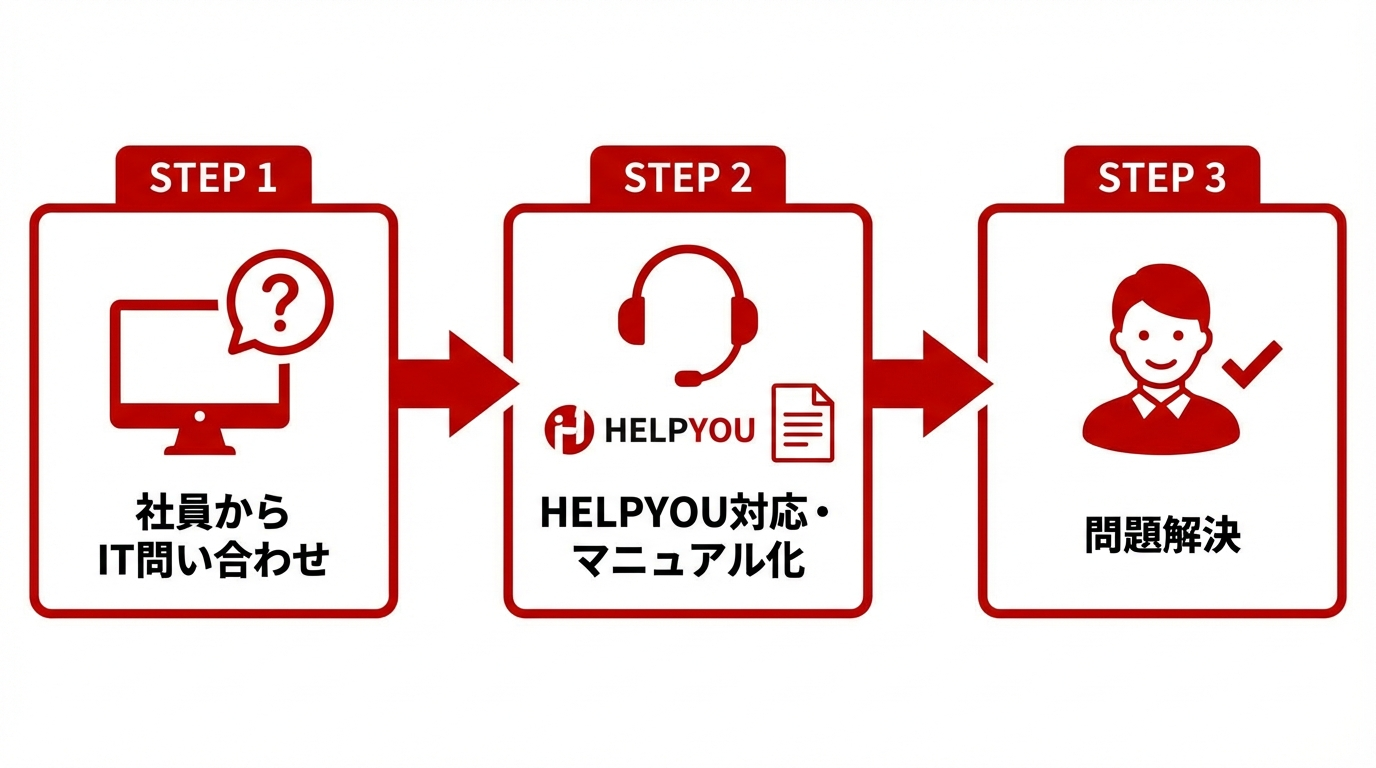
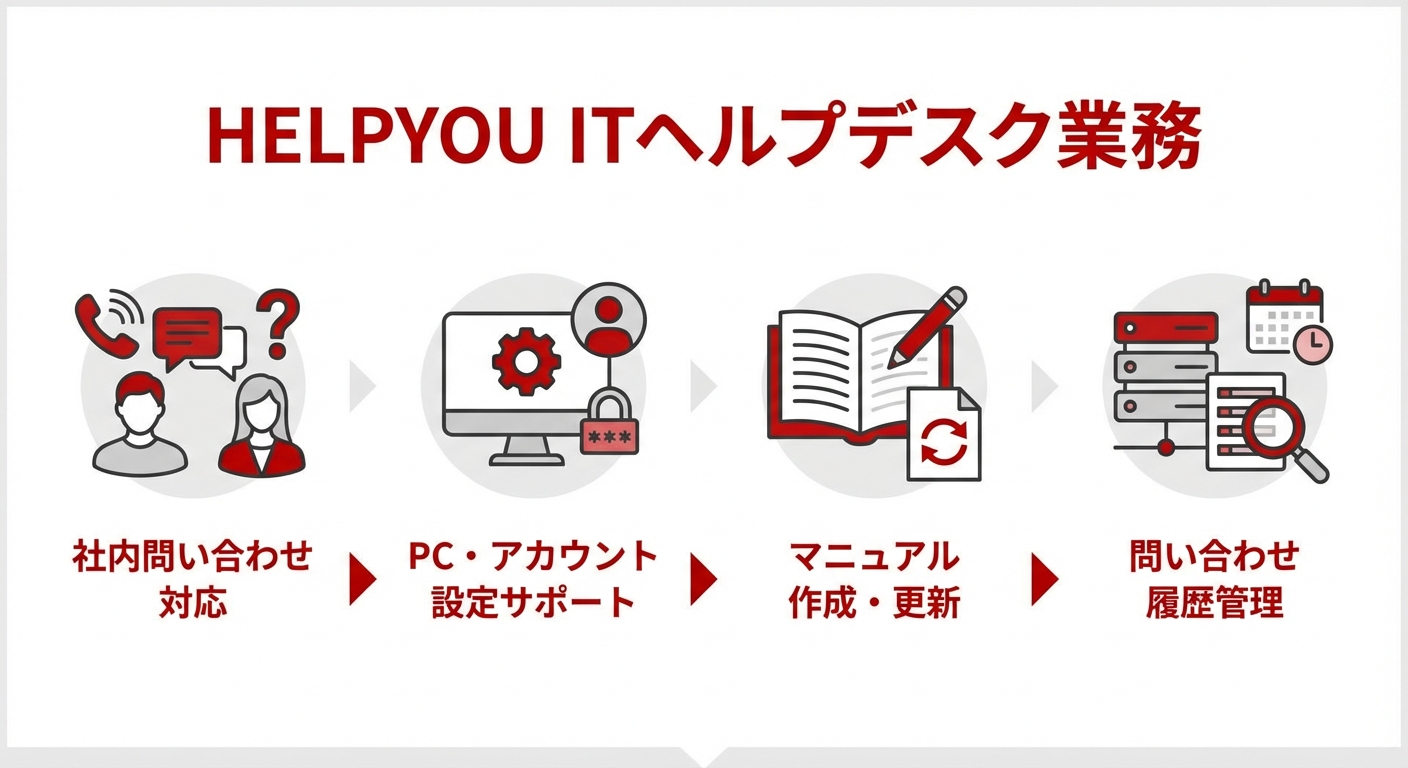
Regenerate images with detailed service descriptions
Update prompts to show actual services as infographics instead of generic 3-step flows

🤖 Generated with [Claude Code](https://claude.ai/code)

Changed region(s): [[0.0, 0.125, 1.0, 0.8125], [0.0, 0.9688, 0.9688, 1.0]]

diff --git a/scripts/generate-images.ts b/scripts/generate-images.ts
@@ -15,42 +15,90 @@ const cases = [
   {
     id: '1',
     title: '経理業務の月次決算サポート',
-    prompt: '業務フロー図を生成してください。横向きの3ステップ図で、各ノードにはアイコンと日本語の説明文を含めてください。ステップ1「経理データ受領」→ ステップ2「HELPYOU処理（仕訳・請求書・経費精算）」→ ステップ3「月次レポート納品」。フラットデザイン、白背景、赤(#CC0000)をアクセントカラーに。',
+    prompt: `HELPYOUの経理サポート業務を説明する図を生成してください。
+以下の4つの業務内容をアイコンと日本語ラベルで図解してください：
+・仕訳入力・チェック
+・請求書処理
+・経費精算処理
+・月次レポート作成補助
+フラットデザイン、白背景、赤(#CC0000)をアクセントカラーに。見やすいインフォグラフィック形式で。`,
   },
   {
     id: '2',
     title: '採用事務・入社手続きの代行',
-    prompt: '業務フロー図を生成してください。横向きの3ステップ図で、各ノードにはアイコンと日本語の説明文を含めてください。ステップ1「応募受付」→ ステップ2「HELPYOU対応（日程調整・書類準備）」→ ステップ3「入社手続き完了」。フラットデザイン、白背景、赤(#CC0000)をアクセントカラーに。',
+    prompt: `HELPYOUの採用事務サポート業務を説明する図を生成してください。
+以下の4つの業務内容をアイコンと日本語ラベルで図解してください：
+・応募者対応（メール・日程調整）
+・入社書類の準備・回収
+・社内システムへのデータ入力
+・入社オリエンテーション資料作成
+フラットデザイン、白背景、赤(#CC0000)をアクセントカラーに。見やすいインフォグラフィック形式で。`,
   },
   {
     id: '3',
     title: '営業資料・提案書作成サポート',
-    prompt: '業務フロー図を生成してください。横向きの3ステップ図で、各ノードにはアイコンと日本語の説明文を含めてください。ステップ1「営業から依頼」→ ステップ2「HELPYOU作成（テンプレート・カスタマイズ）」→ ステップ3「提案書納品」。フラットデザイン、白背景、赤(#CC0000)をアクセントカラーに。',
+    prompt: `HELPYOUの営業資料作成サポート業務を説明する図を生成してください。
+以下の4つの業務内容をアイコンと日本語ラベルで図解してください：
+・提案書テンプレートの作成
+・顧客別カスタマイズ資料作成
+・競合分析資料の整理
+・見積書作成補助
+フラットデザイン、白背景、赤(#CC0000)をアクセントカラーに。見やすいインフォグラフィック形式で。`,
   },
   {
     id: '4',
     title: 'カスタマーサポート体制の構築',
-    prompt: '業務フロー図を生成してください。横向きの3ステップ図で、各ノードにはアイコンと日本語の説明文を含めてください。ステップ1「顧客問い合わせ」→ ステップ2「HELPYOU一次対応」→ ステップ3「解決・エスカレーション」。フラットデザイン、白背景、赤(#CC0000)をアクセントカラーに。',
+    prompt: `HELPYOUのカスタマーサポート業務を説明する図を生成してください。
+以下の4つの業務内容をアイコンと日本語ラベルで図解してください：
+・メール問い合わせの一次対応
+・FAQ作成・更新
+・問い合わせ内容の分類・集計
+・エスカレーション対応
+フラットデザイン、白背景、赤(#CC0000)をアクセントカラーに。見やすいインフォグラフィック形式で。`,
   },
   {
     id: '5',
     title: 'マーケティング施策の運用代行',
-    prompt: '業務フロー図を生成してください。横向きの3ステップ図で、各ノードにはアイコンと日本語の説明文を含めてください。ステップ1「マーケ方針受領」→ ステップ2「HELPYOU運用（SNS・メルマガ）」→ ステップ3「レポート報告」。フラットデザイン、白背景、赤(#CC0000)をアクセントカラーに。',
+    prompt: `HELPYOUのマーケティング運用代行業務を説明する図を生成してください。
+以下の4つの業務内容をアイコンと日本語ラベルで図解してください：
+・SNS投稿作成・スケジュール管理
+・メルマガ作成・配信
+・広告レポート作成
+・競合調査
+フラットデザイン、白背景、赤(#CC0000)をアクセントカラーに。見やすいインフォグラフィック形式で。`,
   },
   {
     id: '6',
     title: '給与計算・社会保険手続きの代行',
-    prompt: '業務フロー図を生成してください。横向きの3ステップ図で、各ノードにはアイコンと日本語の説明文を含めてください。ステップ1「勤怠データ受領」→ ステップ2「HELPYOU処理（給与計算・社保）」→ ステップ3「給与明細発行」。フラットデザイン、白背景、赤(#CC0000)をアクセントカラーに。',
+    prompt: `HELPYOUの給与・社保業務を説明する図を生成してください。
+以下の4つの業務内容をアイコンと日本語ラベルで図解してください：
+・給与計算・明細発行
+・社会保険手続き
+・年末調整対応
+・勤怠データ集計
+フラットデザイン、白背景、赤(#CC0000)をアクセントカラーに。見やすいインフォグラフィック形式で。`,
   },
   {
     id: '7',
     title: '請求書発行・入金管理の効率化',
-    prompt: '業務フロー図を生成してください。横向きの3ステップ図で、各ノードにはアイコンと日本語の説明文を含めてください。ステップ1「売上データ受領」→ ステップ2「HELPYOU処理（請求書・入金消込）」→ ステップ3「管理完了」。フラットデザイン、白背景、赤(#CC0000)をアクセントカラーに。',
+    prompt: `HELPYOUの請求・入金管理業務を説明する図を生成してください。
+以下の4つの業務内容をアイコンと日本語ラベルで図解してください：
+・請求書作成・発行
+・入金消込
+・督促対応
+・売掛金管理表作成
+フラットデザイン、白背景、赤(#CC0000)をアクセントカラーに。見やすいインフォグラフィック形式で。`,
   },
   {
     id: '8',
     title: 'ITヘルプデスクの外部委託',
-    prompt: '業務フロー図を生成してください。横向きの3ステップ図で、各ノードにはアイコンと日本語の説明文を含めてください。ステップ1「社員からIT問い合わせ」→ ステップ2「HELPYOU対応・マニュアル化」→ ステップ3「問題解決」。フラットデザイン、白背景、赤(#CC0000)をアクセントカラーに。',
+    prompt: `HELPYOUのITヘルプデスク業務を説明する図を生成してください。
+以下の4つの業務内容をアイコンと日本語ラベルで図解してください：
+・社内問い合わせ対応
+・PC・アカウント設定サポート
+・マニュアル作成・更新
+・問い合わせ履歴管理
+フラットデザイン、白背景、赤(#CC0000)をアクセントカラーに。見やすいインフォグラフィック形式で。`,
   },
 ];
 
